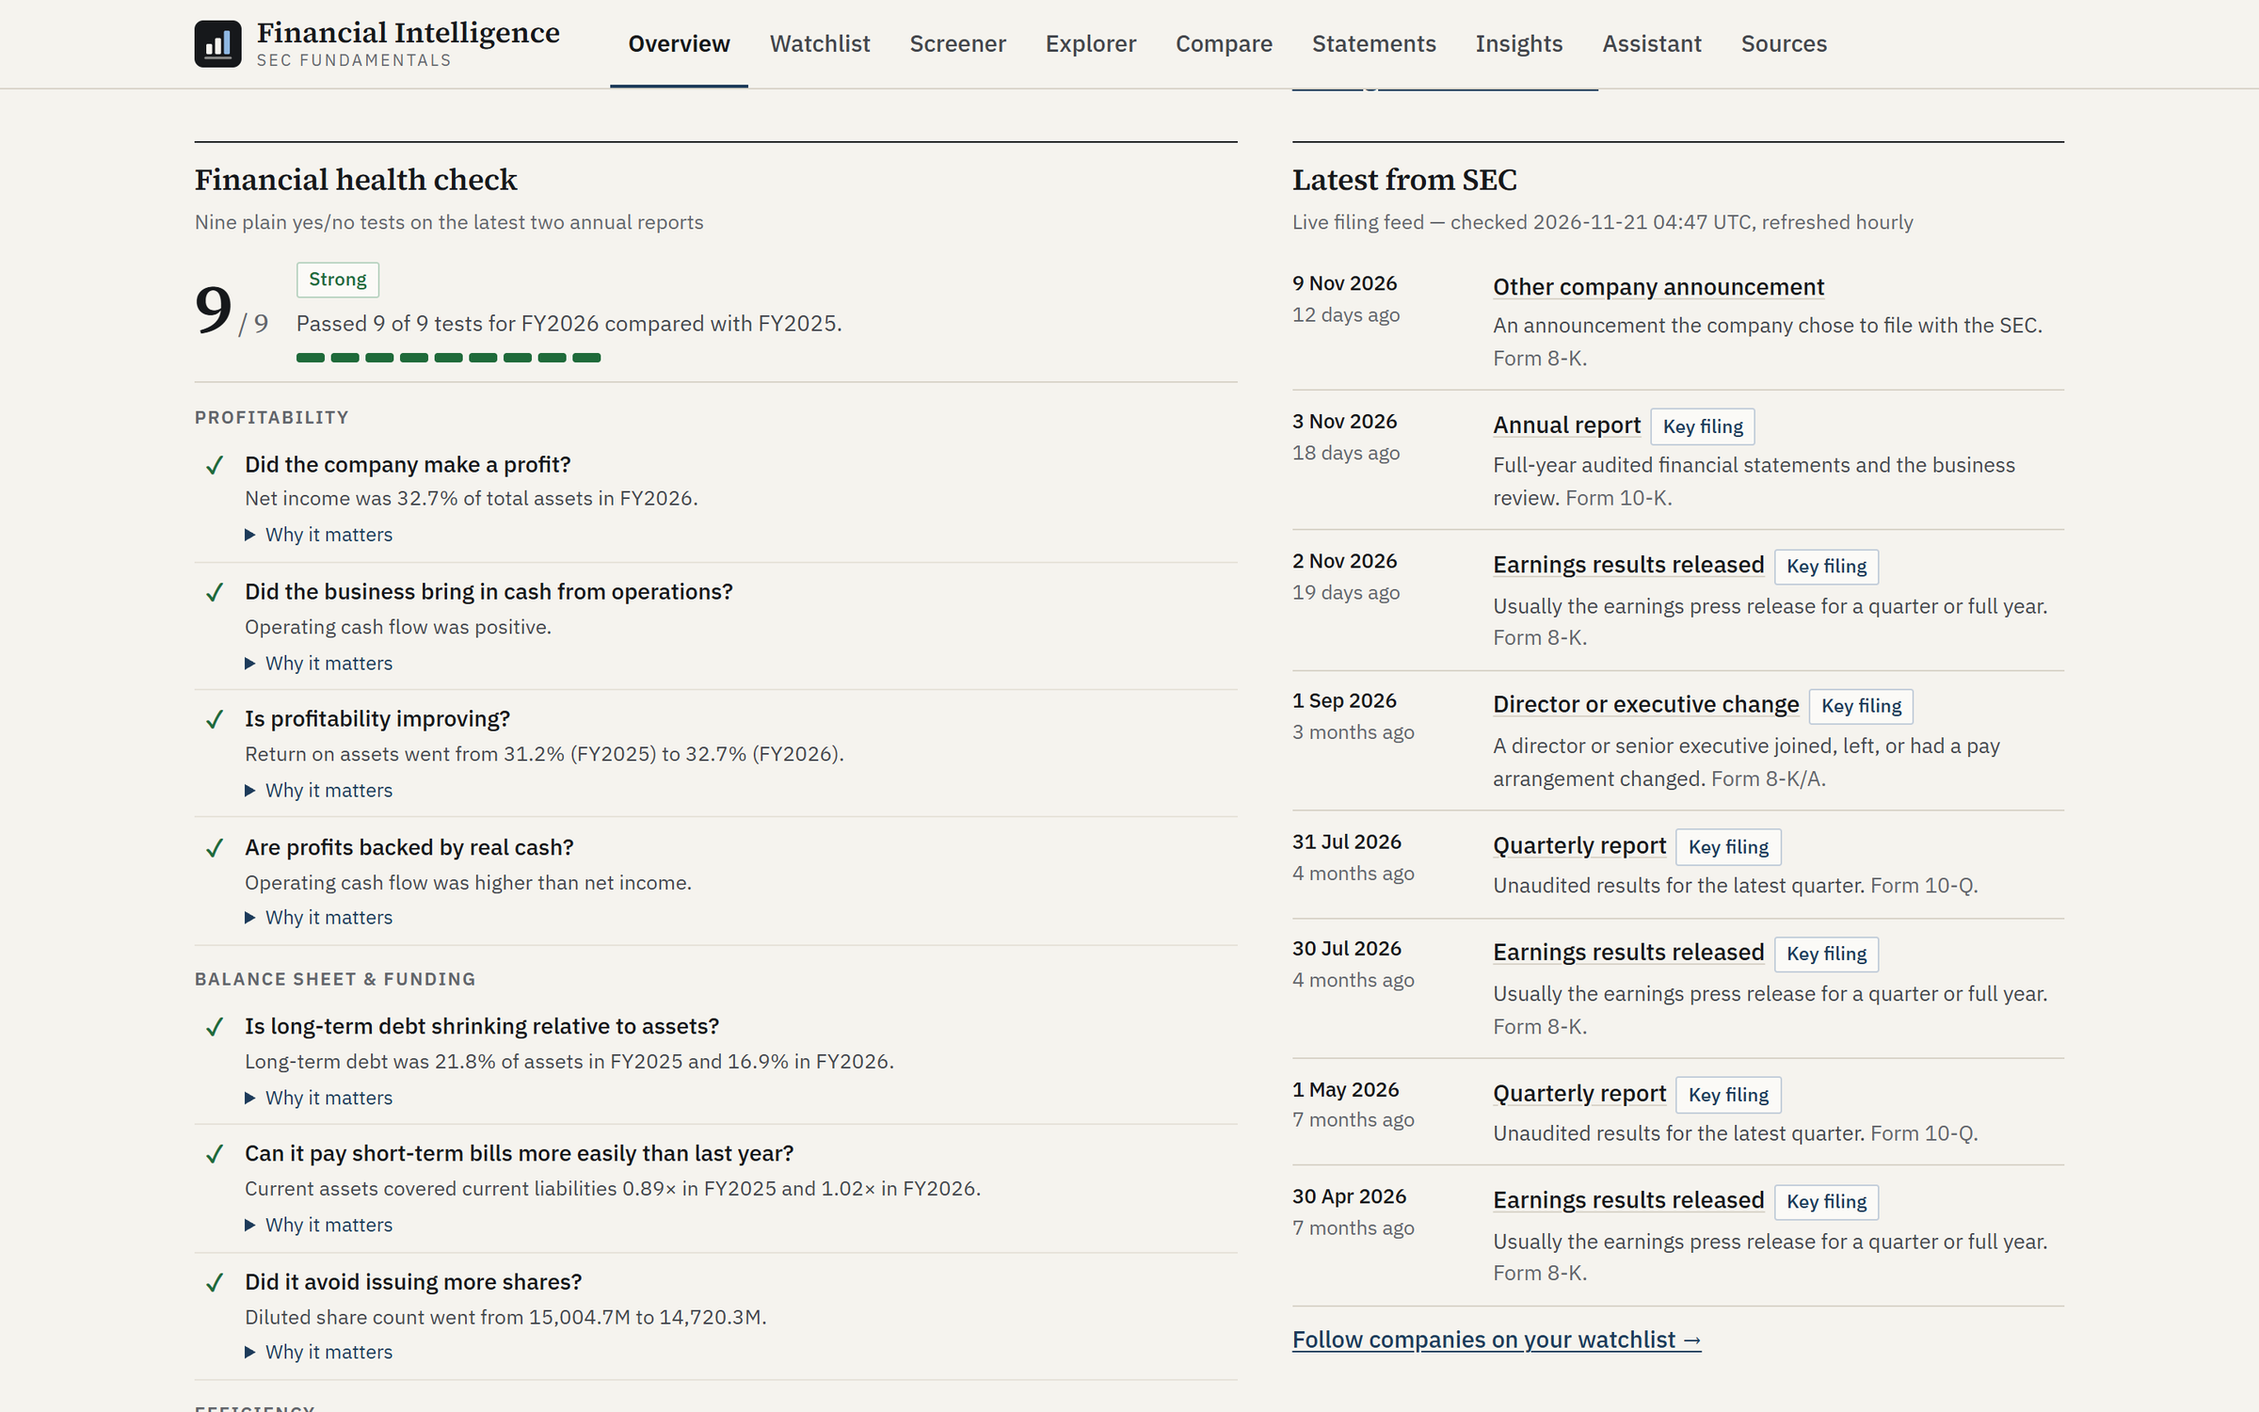
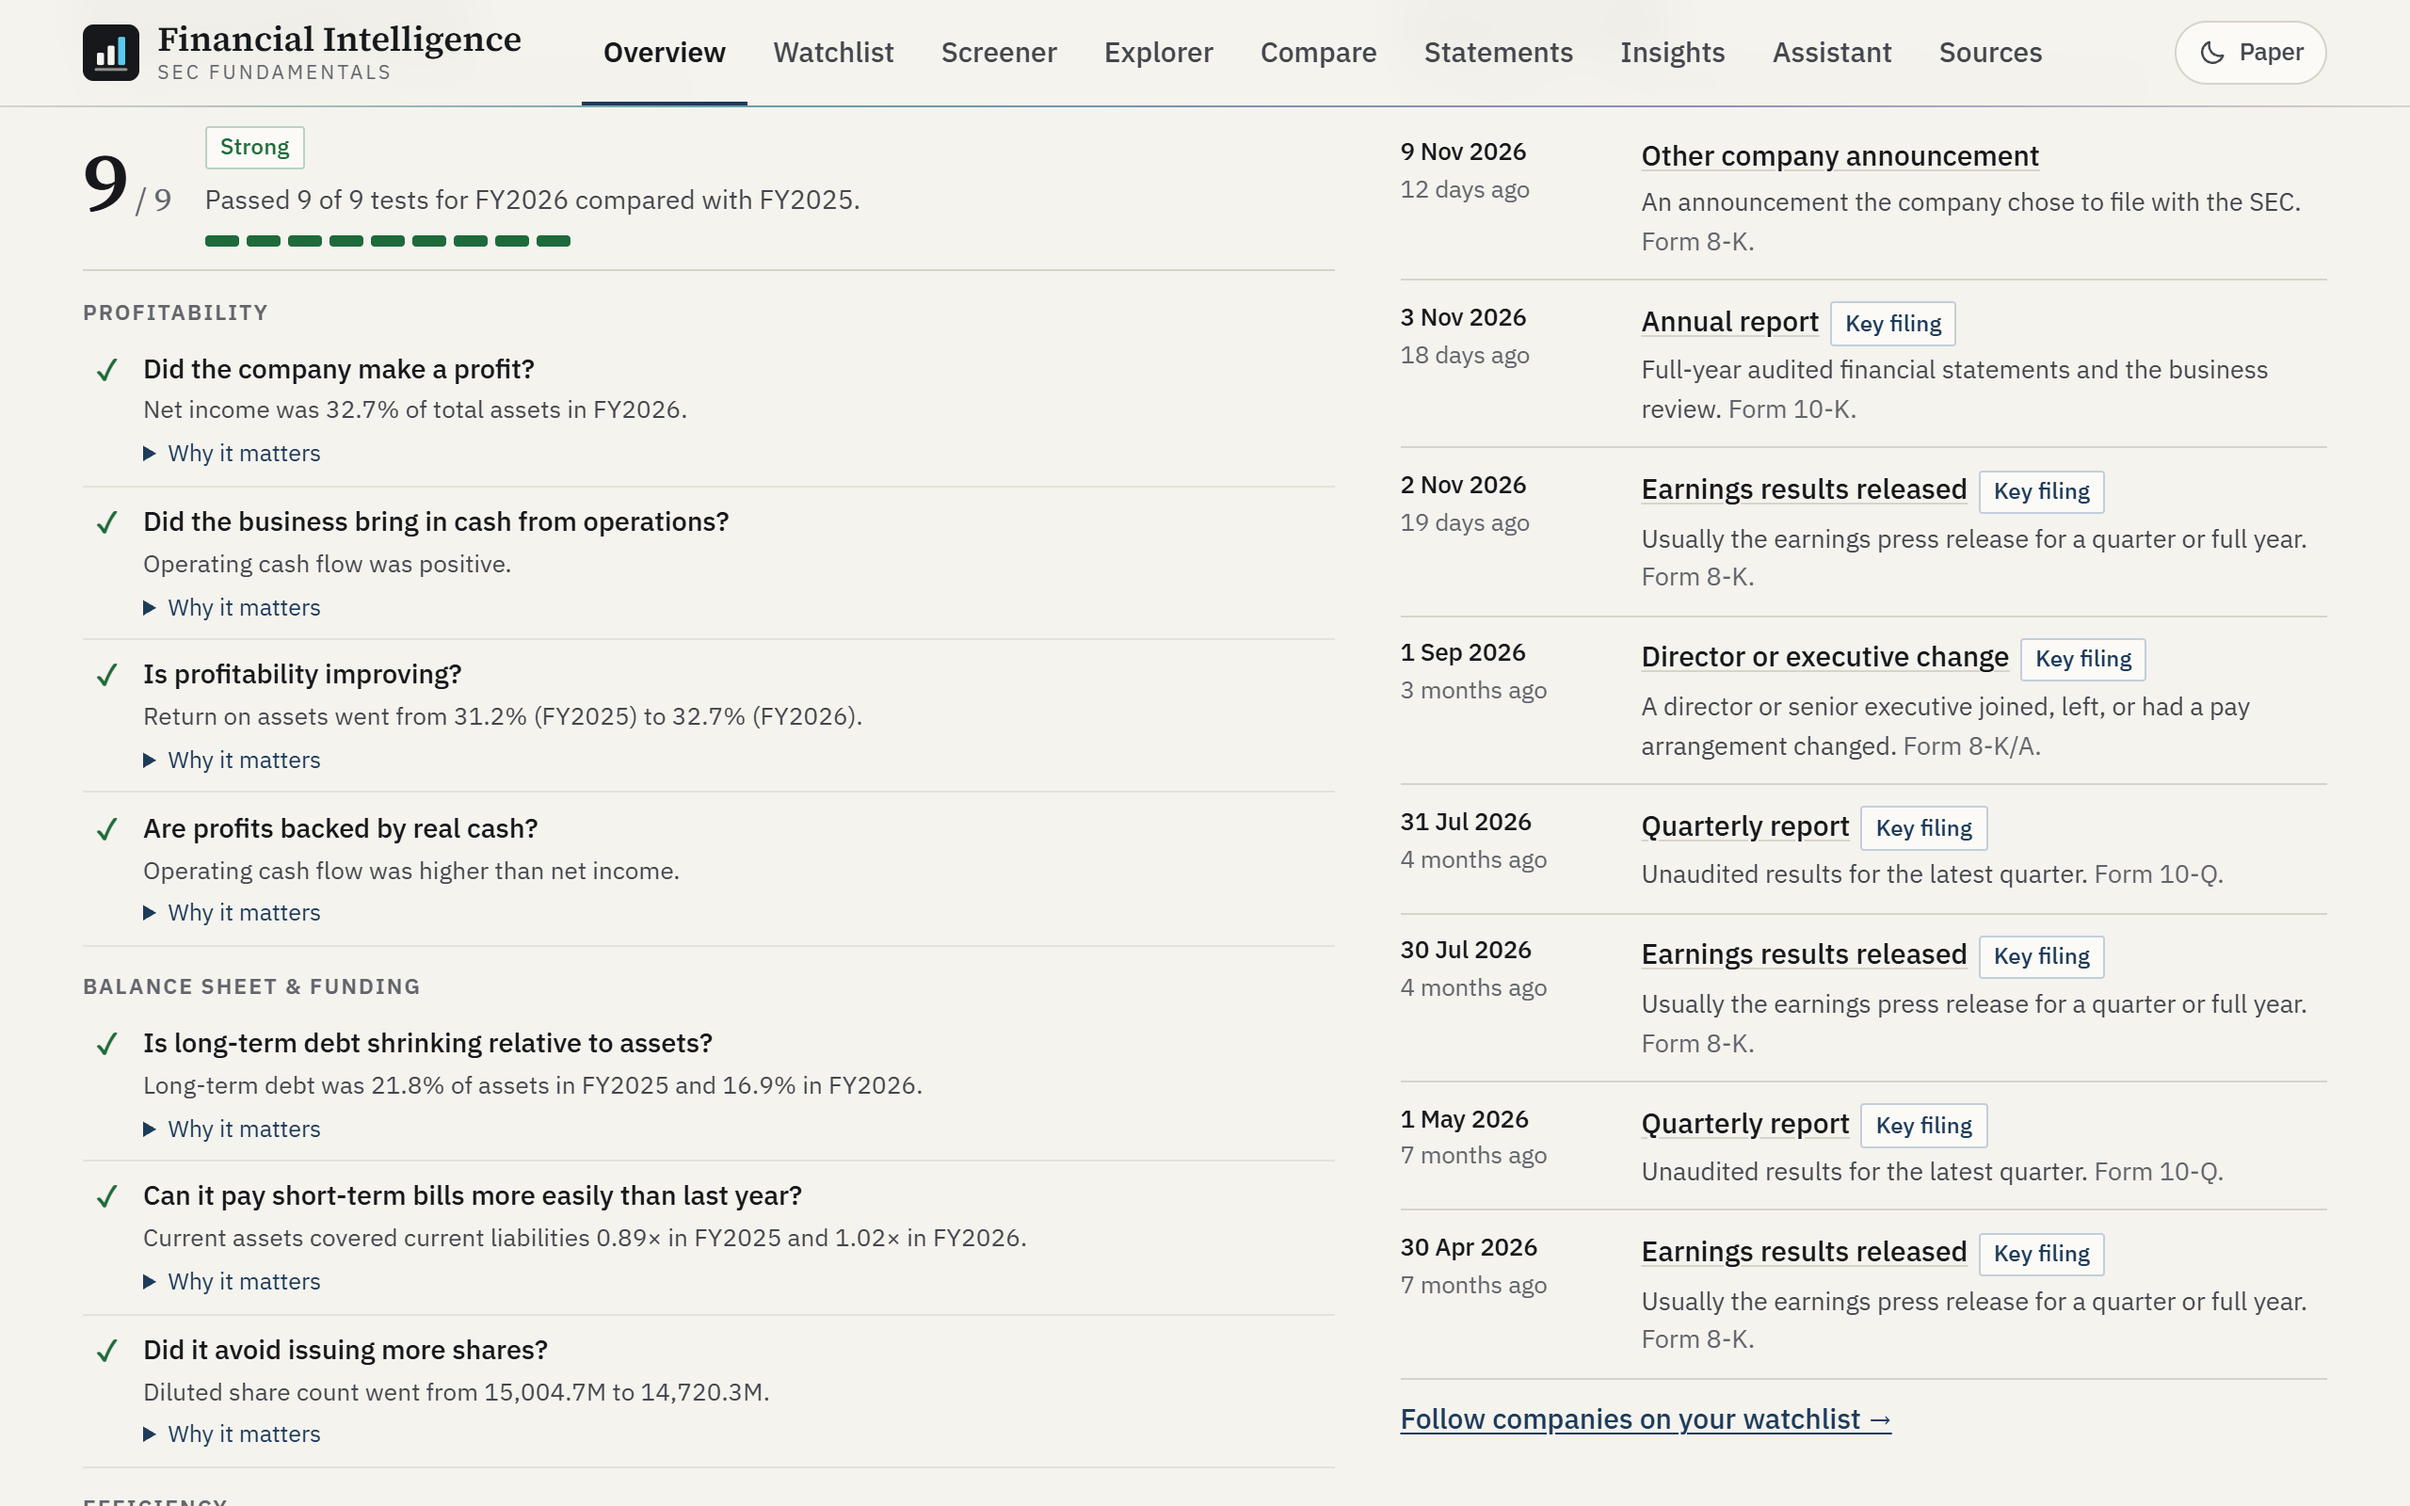
README: production screenshots and design notes

diff --git a/README.md b/README.md
@@ -14,7 +14,8 @@ What it does:
 
 - **13,000+ US exchange-listed securities** are searchable, rebuilt daily from official exchange directories. About 5,600 of them are operating companies.
 - **Audited annual statements** come straight from SEC XBRL (10-K / 20-F / 40-F), with correct units, fiscal periods and filing links.
-- **A research-note interface** — warm paper, ink and one navy accent, serif headings, tabular figures, hairline rules instead of cards, and accessible server-rendered charts (legend, keyboard tooltips, data-table alternative, colour-blind-validated palette). Responsive down to 320 px.
+- **Two themes, one grammar.** *Paper* — warm paper, ink and a navy accent, like a research note — and *Terminal* — blue-black glass with a cyan accent and a violet second voice. The first visit follows the OS; the masthead toggle remembers the choice. Serif headings, tabular figures, hairline rules, and accessible charts (legend, keyboard tooltips, data-table alternative, a colour-blind-validated palette per theme). Responsive down to 320 px.
+- **Motion with a purpose.** KPIs count up to the exact reported figure, bars grow from the zero line, lines wipe in and pages settle on navigation; all of it is off under `prefers-reduced-motion`. See [web/DESIGN.md](web/DESIGN.md).
 - **A secure Gemini assistant.** The key stays server-side, only free-tier models are allowlisted, and abuse limits are enforced on the server.
 - **Deployed on Vercel** (static front end + Python serverless API), plus a one-click Windows executable.
 
@@ -22,8 +23,10 @@ What it does:
 
 ![Financial Intelligence — Apple Inc. overview: KPI strip, revenue and margin charts](docs/screenshots/web-overview-desktop.png)
 
-| Screener (verified against annual reports) | Health check + live SEC filings |
+| Terminal theme — overview | Terminal theme — compare |
 |---|---|
+| ![The overview in the dark Terminal theme](docs/screenshots/web-overview-dark-desktop.png) | ![Side-by-side fundamentals in the Terminal theme](docs/screenshots/web-compare-dark-desktop.png) |
+| **Screener (verified against annual reports)** | **Health check + live SEC filings** |
 | ![Screener ranking companies by net margin, with verification and outlier notes](docs/screenshots/web-screener-desktop.png) | ![Nine-test financial health check beside the latest SEC filings](docs/screenshots/web-health-and-filings-desktop.png) |
 | **Watchlist** | **Compare** |
 | ![Watchlist of followed companies with plain-English filings](docs/screenshots/web-watchlist-desktop.png) | ![Side-by-side ratios, amounts and trends](docs/screenshots/web-compare-desktop.png) |
@@ -34,6 +37,8 @@ What it does:
   <img src="docs/screenshots/web-overview-mobile.png" alt="Overview on a phone" width="240" />
   &nbsp;&nbsp;
   <img src="docs/screenshots/web-screener-mobile.png" alt="Screener on a phone" width="240" />
+  &nbsp;&nbsp;
+  <img src="docs/screenshots/web-overview-dark-mobile.png" alt="Overview on a phone in the Terminal theme" width="240" />
 </p>
 
 *Screenshots of the web app with live SEC data (November 2026). The `01_…`–`12_…` images in `docs/screenshots/` are the Streamlit desktop version.*
